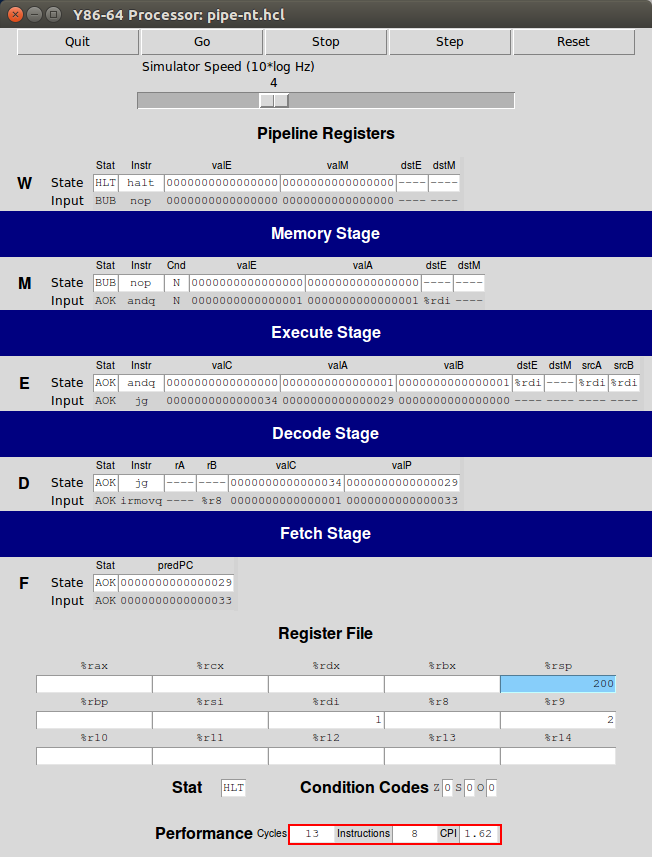
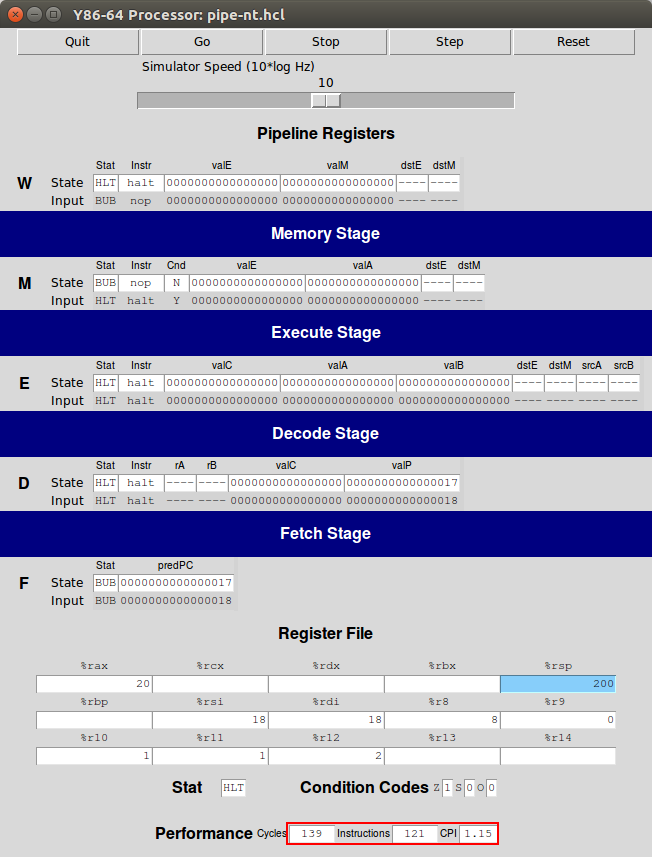
add 4.56, update 4.55

diff --git a/chapter_4/sim/pipe/pipe-btfnt.c b/chapter_4/sim/pipe/pipe-btfnt.c
@@ -1,4 +1,4 @@
-char simname[] = "Y86-64 Processor: pipe-full.hcl";
+char simname[] = "Y86-64 Processor: pipe-btfnt.hcl";
 #include <stdio.h>
 #include "isa.h"
 #include "pipeline.h"
@@ -8,9 +8,14 @@ int sim_main(int argc, char *argv[]);
 int main(int argc, char *argv[]){return sim_main(argc,argv);}
 long long gen_f_pc()
 {
-    return ((((ex_mem_curr->icode) == (I_JMP)) & !(ex_mem_curr->takebranch)
-        ) ? (ex_mem_curr->vala) : ((mem_wb_curr->icode) == (I_RET)) ? 
-      (mem_wb_curr->valm) : (pc_curr->pc));
+    return ((((((ex_mem_curr->icode) == (I_JMP)) & ((ex_mem_curr->ifun) != 
+              (C_YES))) & ((ex_mem_curr->vale) < (ex_mem_curr->vala))) & !
+        (ex_mem_curr->takebranch)) ? (ex_mem_curr->vala) : ((((
+              (ex_mem_curr->icode) == (I_JMP)) & ((ex_mem_curr->ifun) != 
+              (C_YES))) & ((ex_mem_curr->vale) >= (ex_mem_curr->vala))) & 
+        (ex_mem_curr->takebranch)) ? (ex_mem_curr->vale) : (
+        (mem_wb_curr->icode) == (I_RET)) ? (mem_wb_curr->valm) : 
+      (pc_curr->pc));
 }
 
 long long gen_f_icode()
@@ -31,8 +36,7 @@ long long gen_instr_valid()
       (if_id_next->icode) == (I_MRMOVQ) || (if_id_next->icode) == (I_ALU)
        || (if_id_next->icode) == (I_JMP) || (if_id_next->icode) == (I_CALL)
        || (if_id_next->icode) == (I_RET) || (if_id_next->icode) == 
-      (I_PUSHQ) || (if_id_next->icode) == (I_POPQ) || (if_id_next->icode)
-       == (I_IADDQ));
+      (I_PUSHQ) || (if_id_next->icode) == (I_POPQ));
 }
 
 long long gen_f_stat()
@@ -47,21 +51,25 @@ long long gen_need_regids()
       (I_ALU) || (if_id_next->icode) == (I_PUSHQ) || (if_id_next->icode)
        == (I_POPQ) || (if_id_next->icode) == (I_IRMOVQ) || 
       (if_id_next->icode) == (I_RMMOVQ) || (if_id_next->icode) == 
-      (I_MRMOVQ) || (if_id_next->icode) == (I_IADDQ));
+      (I_MRMOVQ));
 }
 
 long long gen_need_valC()
 {
     return ((if_id_next->icode) == (I_IRMOVQ) || (if_id_next->icode) == 
       (I_RMMOVQ) || (if_id_next->icode) == (I_MRMOVQ) || 
-      (if_id_next->icode) == (I_JMP) || (if_id_next->icode) == (I_CALL) || 
-      (if_id_next->icode) == (I_IADDQ));
+      (if_id_next->icode) == (I_JMP) || (if_id_next->icode) == (I_CALL));
 }
 
 long long gen_f_predPC()
 {
-    return (((if_id_next->icode) == (I_JMP) || (if_id_next->icode) == 
-        (I_CALL)) ? (if_id_next->valc) : (if_id_next->valp));
+    return (((((if_id_next->icode) == (I_JMP)) & ((if_id_next->ifun) != 
+            (C_YES))) & ((if_id_next->valc) < (if_id_next->valp))) ? 
+      (if_id_next->valc) : ((((if_id_next->icode) == (I_JMP)) & (
+            (if_id_next->ifun) != (C_YES))) & ((if_id_next->valc) >= 
+          (if_id_next->valp))) ? (if_id_next->valp) : ((if_id_next->icode)
+         == (I_JMP) || (if_id_next->icode) == (I_CALL)) ? 
+      (if_id_next->valc) : (if_id_next->valp));
 }
 
 long long gen_d_srcA()
@@ -76,21 +84,19 @@ long long gen_d_srcA()
 long long gen_d_srcB()
 {
     return (((if_id_curr->icode) == (I_ALU) || (if_id_curr->icode) == 
-        (I_RMMOVQ) || (if_id_curr->icode) == (I_MRMOVQ) || 
-        (if_id_curr->icode) == (I_IADDQ)) ? (if_id_curr->rb) : (
-        (if_id_curr->icode) == (I_PUSHQ) || (if_id_curr->icode) == (I_POPQ)
-         || (if_id_curr->icode) == (I_CALL) || (if_id_curr->icode) == 
-        (I_RET)) ? (REG_RSP) : (REG_NONE));
+        (I_RMMOVQ) || (if_id_curr->icode) == (I_MRMOVQ)) ? (if_id_curr->rb)
+       : ((if_id_curr->icode) == (I_PUSHQ) || (if_id_curr->icode) == 
+        (I_POPQ) || (if_id_curr->icode) == (I_CALL) || (if_id_curr->icode)
+         == (I_RET)) ? (REG_RSP) : (REG_NONE));
 }
 
 long long gen_d_dstE()
 {
     return (((if_id_curr->icode) == (I_RRMOVQ) || (if_id_curr->icode) == 
-        (I_IRMOVQ) || (if_id_curr->icode) == (I_ALU) || (if_id_curr->icode)
-         == (I_IADDQ)) ? (if_id_curr->rb) : ((if_id_curr->icode) == 
-        (I_PUSHQ) || (if_id_curr->icode) == (I_POPQ) || (if_id_curr->icode)
-         == (I_CALL) || (if_id_curr->icode) == (I_RET)) ? (REG_RSP) : 
-      (REG_NONE));
+        (I_IRMOVQ) || (if_id_curr->icode) == (I_ALU)) ? (if_id_curr->rb) : 
+      ((if_id_curr->icode) == (I_PUSHQ) || (if_id_curr->icode) == (I_POPQ)
+         || (if_id_curr->icode) == (I_CALL) || (if_id_curr->icode) == 
+        (I_RET)) ? (REG_RSP) : (REG_NONE));
 }
 
 long long gen_d_dstM()
@@ -126,10 +132,10 @@ long long gen_aluA()
     return (((id_ex_curr->icode) == (I_RRMOVQ) || (id_ex_curr->icode) == 
         (I_ALU)) ? (id_ex_curr->vala) : ((id_ex_curr->icode) == (I_IRMOVQ)
          || (id_ex_curr->icode) == (I_RMMOVQ) || (id_ex_curr->icode) == 
-        (I_MRMOVQ) || (id_ex_curr->icode) == (I_IADDQ)) ? 
-      (id_ex_curr->valc) : ((id_ex_curr->icode) == (I_CALL) || 
-        (id_ex_curr->icode) == (I_PUSHQ)) ? -8 : ((id_ex_curr->icode) == 
-        (I_RET) || (id_ex_curr->icode) == (I_POPQ)) ? 8 : 0);
+        (I_MRMOVQ) || (id_ex_curr->icode) == (I_JMP)) ? (id_ex_curr->valc)
+       : ((id_ex_curr->icode) == (I_CALL) || (id_ex_curr->icode) == 
+        (I_PUSHQ)) ? -8 : ((id_ex_curr->icode) == (I_RET) || 
+        (id_ex_curr->icode) == (I_POPQ)) ? 8 : 0);
 }
 
 long long gen_aluB()
@@ -137,10 +143,10 @@ long long gen_aluB()
     return (((id_ex_curr->icode) == (I_RMMOVQ) || (id_ex_curr->icode) == 
         (I_MRMOVQ) || (id_ex_curr->icode) == (I_ALU) || (id_ex_curr->icode)
          == (I_CALL) || (id_ex_curr->icode) == (I_PUSHQ) || 
-        (id_ex_curr->icode) == (I_RET) || (id_ex_curr->icode) == (I_POPQ)
-         || (id_ex_curr->icode) == (I_IADDQ)) ? (id_ex_curr->valb) : (
-        (id_ex_curr->icode) == (I_RRMOVQ) || (id_ex_curr->icode) == 
-        (I_IRMOVQ)) ? 0 : 0);
+        (id_ex_curr->icode) == (I_RET) || (id_ex_curr->icode) == (I_POPQ))
+       ? (id_ex_curr->valb) : ((id_ex_curr->icode) == (I_RRMOVQ) || 
+        (id_ex_curr->icode) == (I_IRMOVQ) || (id_ex_curr->icode) == (I_JMP)
+        ) ? 0 : 0);
 }
 
 long long gen_alufun()
@@ -151,12 +157,11 @@ long long gen_alufun()
 
 long long gen_set_cc()
 {
-    return ((((id_ex_curr->icode) == (I_ALU) || (id_ex_curr->icode) == 
-          (I_IADDQ)) & !((mem_wb_next->status) == (STAT_ADR) || 
-          (mem_wb_next->status) == (STAT_INS) || (mem_wb_next->status) == 
-          (STAT_HLT))) & !((mem_wb_curr->status) == (STAT_ADR) || 
-        (mem_wb_curr->status) == (STAT_INS) || (mem_wb_curr->status) == 
-        (STAT_HLT)));
+    return ((((id_ex_curr->icode) == (I_ALU)) & !((mem_wb_next->status) == 
+          (STAT_ADR) || (mem_wb_next->status) == (STAT_INS) || 
+          (mem_wb_next->status) == (STAT_HLT))) & !((mem_wb_curr->status)
+         == (STAT_ADR) || (mem_wb_curr->status) == (STAT_INS) || 
+        (mem_wb_curr->status) == (STAT_HLT)));
 }
 
 long long gen_e_valA()
@@ -245,8 +250,12 @@ long long gen_D_stall()
 
 long long gen_D_bubble()
 {
-    return ((((id_ex_curr->icode) == (I_JMP)) & !(ex_mem_next->takebranch))
-       | (!(((id_ex_curr->icode) == (I_MRMOVQ) || (id_ex_curr->icode) == 
+    return (((((((id_ex_curr->icode) == (I_JMP)) & ((id_ex_curr->ifun) != 
+                (C_YES))) & ((id_ex_curr->valc) < (id_ex_curr->vala))) & !
+          (ex_mem_next->takebranch)) | (((((id_ex_curr->icode) == (I_JMP))
+               & ((id_ex_curr->ifun) != (C_YES))) & ((id_ex_curr->valc) >= 
+              (id_ex_curr->vala))) & (ex_mem_next->takebranch))) | (!((
+            (id_ex_curr->icode) == (I_MRMOVQ) || (id_ex_curr->icode) == 
             (I_POPQ)) & ((id_ex_curr->destm) == (id_ex_next->srca) || 
             (id_ex_curr->destm) == (id_ex_next->srcb))) & ((I_RET) == 
           (if_id_curr->icode) || (I_RET) == (id_ex_curr->icode) || (I_RET)
@@ -260,8 +269,12 @@ long long gen_E_stall()
 
 long long gen_E_bubble()
 {
-    return ((((id_ex_curr->icode) == (I_JMP)) & !(ex_mem_next->takebranch))
-       | (((id_ex_curr->icode) == (I_MRMOVQ) || (id_ex_curr->icode) == 
+    return (((((((id_ex_curr->icode) == (I_JMP)) & ((id_ex_curr->ifun) != 
+                (C_YES))) & ((id_ex_curr->valc) < (id_ex_curr->vala))) & !
+          (ex_mem_next->takebranch)) | (((((id_ex_curr->icode) == (I_JMP))
+               & ((id_ex_curr->ifun) != (C_YES))) & ((id_ex_curr->valc) >= 
+              (id_ex_curr->vala))) & (ex_mem_next->takebranch))) | ((
+          (id_ex_curr->icode) == (I_MRMOVQ) || (id_ex_curr->icode) == 
           (I_POPQ)) & ((id_ex_curr->destm) == (id_ex_next->srca) || 
           (id_ex_curr->destm) == (id_ex_next->srcb))));
 }

diff --git a/chapter_4/4.56/readme.md b/chapter_4/4.56/readme.md
@@ -1,16 +1,16 @@
-## homework 4.55
-- 修改 ../sim/pipe/pipe-nt.hcl，如: 4.55-pipe-nt.hcl  
+## homework 4.56
+- 修改 ../sim/pipe/pipe-btfnt.hcl，如: 4.56-pipe-btfnt.hcl  
 - 修改处详见difference
 - 测试文件使用homework 4.48的48_bubble_sort.yo
 
 ### 重新生成pipe模拟器
-将homework 4.55 的pipe-nt.hcl放入../sim/pipe文件夹内，修改Makefile  
+将homework 4.56 的pipe-brfnt.hcl放入../sim/pipe文件夹内，修改Makefile  
 将```TKLIBS=-L/usr/lib -ltk -ltcl```  
 改为 ```TKLIBS=-L/usr/lib -ltk8.5 -ltcl8.5```  
 终端输入命令：  
 ```
 ubuntu:~/Documents/CSAPP/chapter_4/sim/pipe$ make clean
-ubuntu:~/Documents/CSAPP/chapter_4/sim/pipe$ make psim VERSION=nt
+ubuntu:~/Documents/CSAPP/chapter_4/sim/pipe$ make psim VERSION=btfnt
 ```  
 ### 测试模拟器  
 终端输入命令：  
@@ -20,7 +20,7 @@ ubuntu:~/Documents/CSAPP/chapter_4/sim/pipe$ ./psim -g ../../4.48/48_bubble_sort
 可打开GUI界面，运行后得到测试结果:
 
 #### pipe-nt-Processor  
-![pipe-nt-Processor](https://github.com/DesmondoRay/CSAPP/blob/master/chapter_4/4.55/pipe-nt-Processor.png)  
+![pipe-nt-Processor](https://github.com/DesmondoRay/CSAPP/blob/master/chapter_4/4.56/pipe-btfnt-Processor.png)  
 
 #### pipe-std-Processor（原版pipe模拟器）  
 ![pipe-nt-Processor](https://github.com/DesmondoRay/CSAPP/blob/master/chapter_4/4.55/pipe-std-Processor.png)
